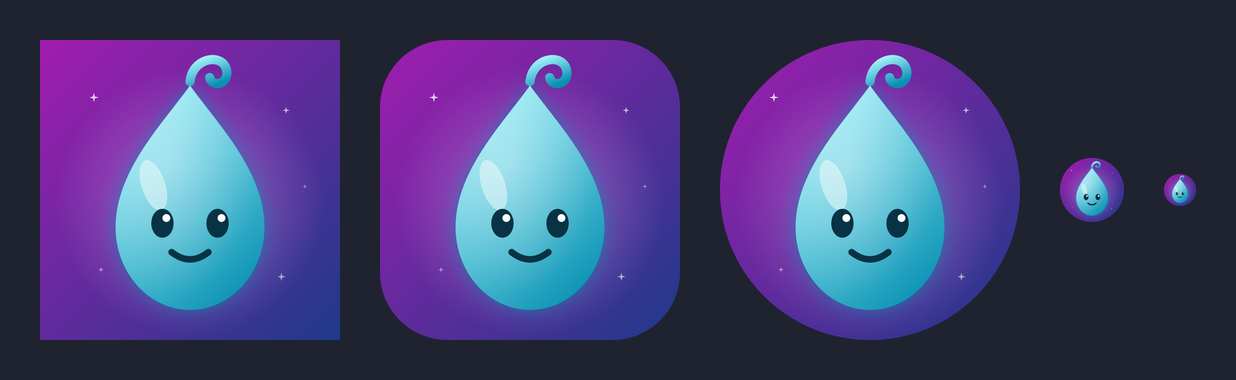
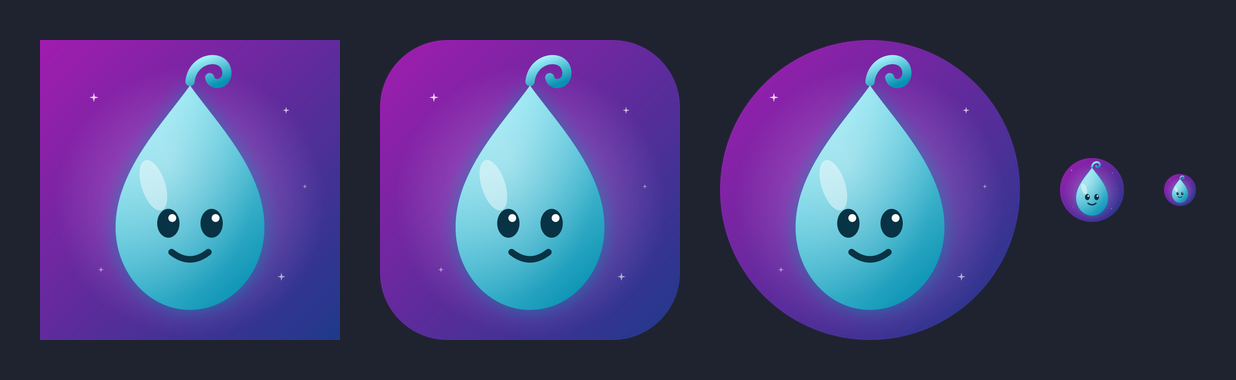
Widget slim: eyes closer together

diff --git a/README.md b/README.md
@@ -8,7 +8,7 @@ Staff-facing helper in Google Chat.
 
 ### Current: slim, no cheeks
 
-The drop at 90% width, without the rosy cheeks, in `widget/slim/`. **This is the one in use.**
+The drop at 90% width, eyes closer together, without the rosy cheeks, in `widget/slim/`. **This is the one in use.**
 
 ![Widget, slim](widget/slim/preview-slim.png)
 
